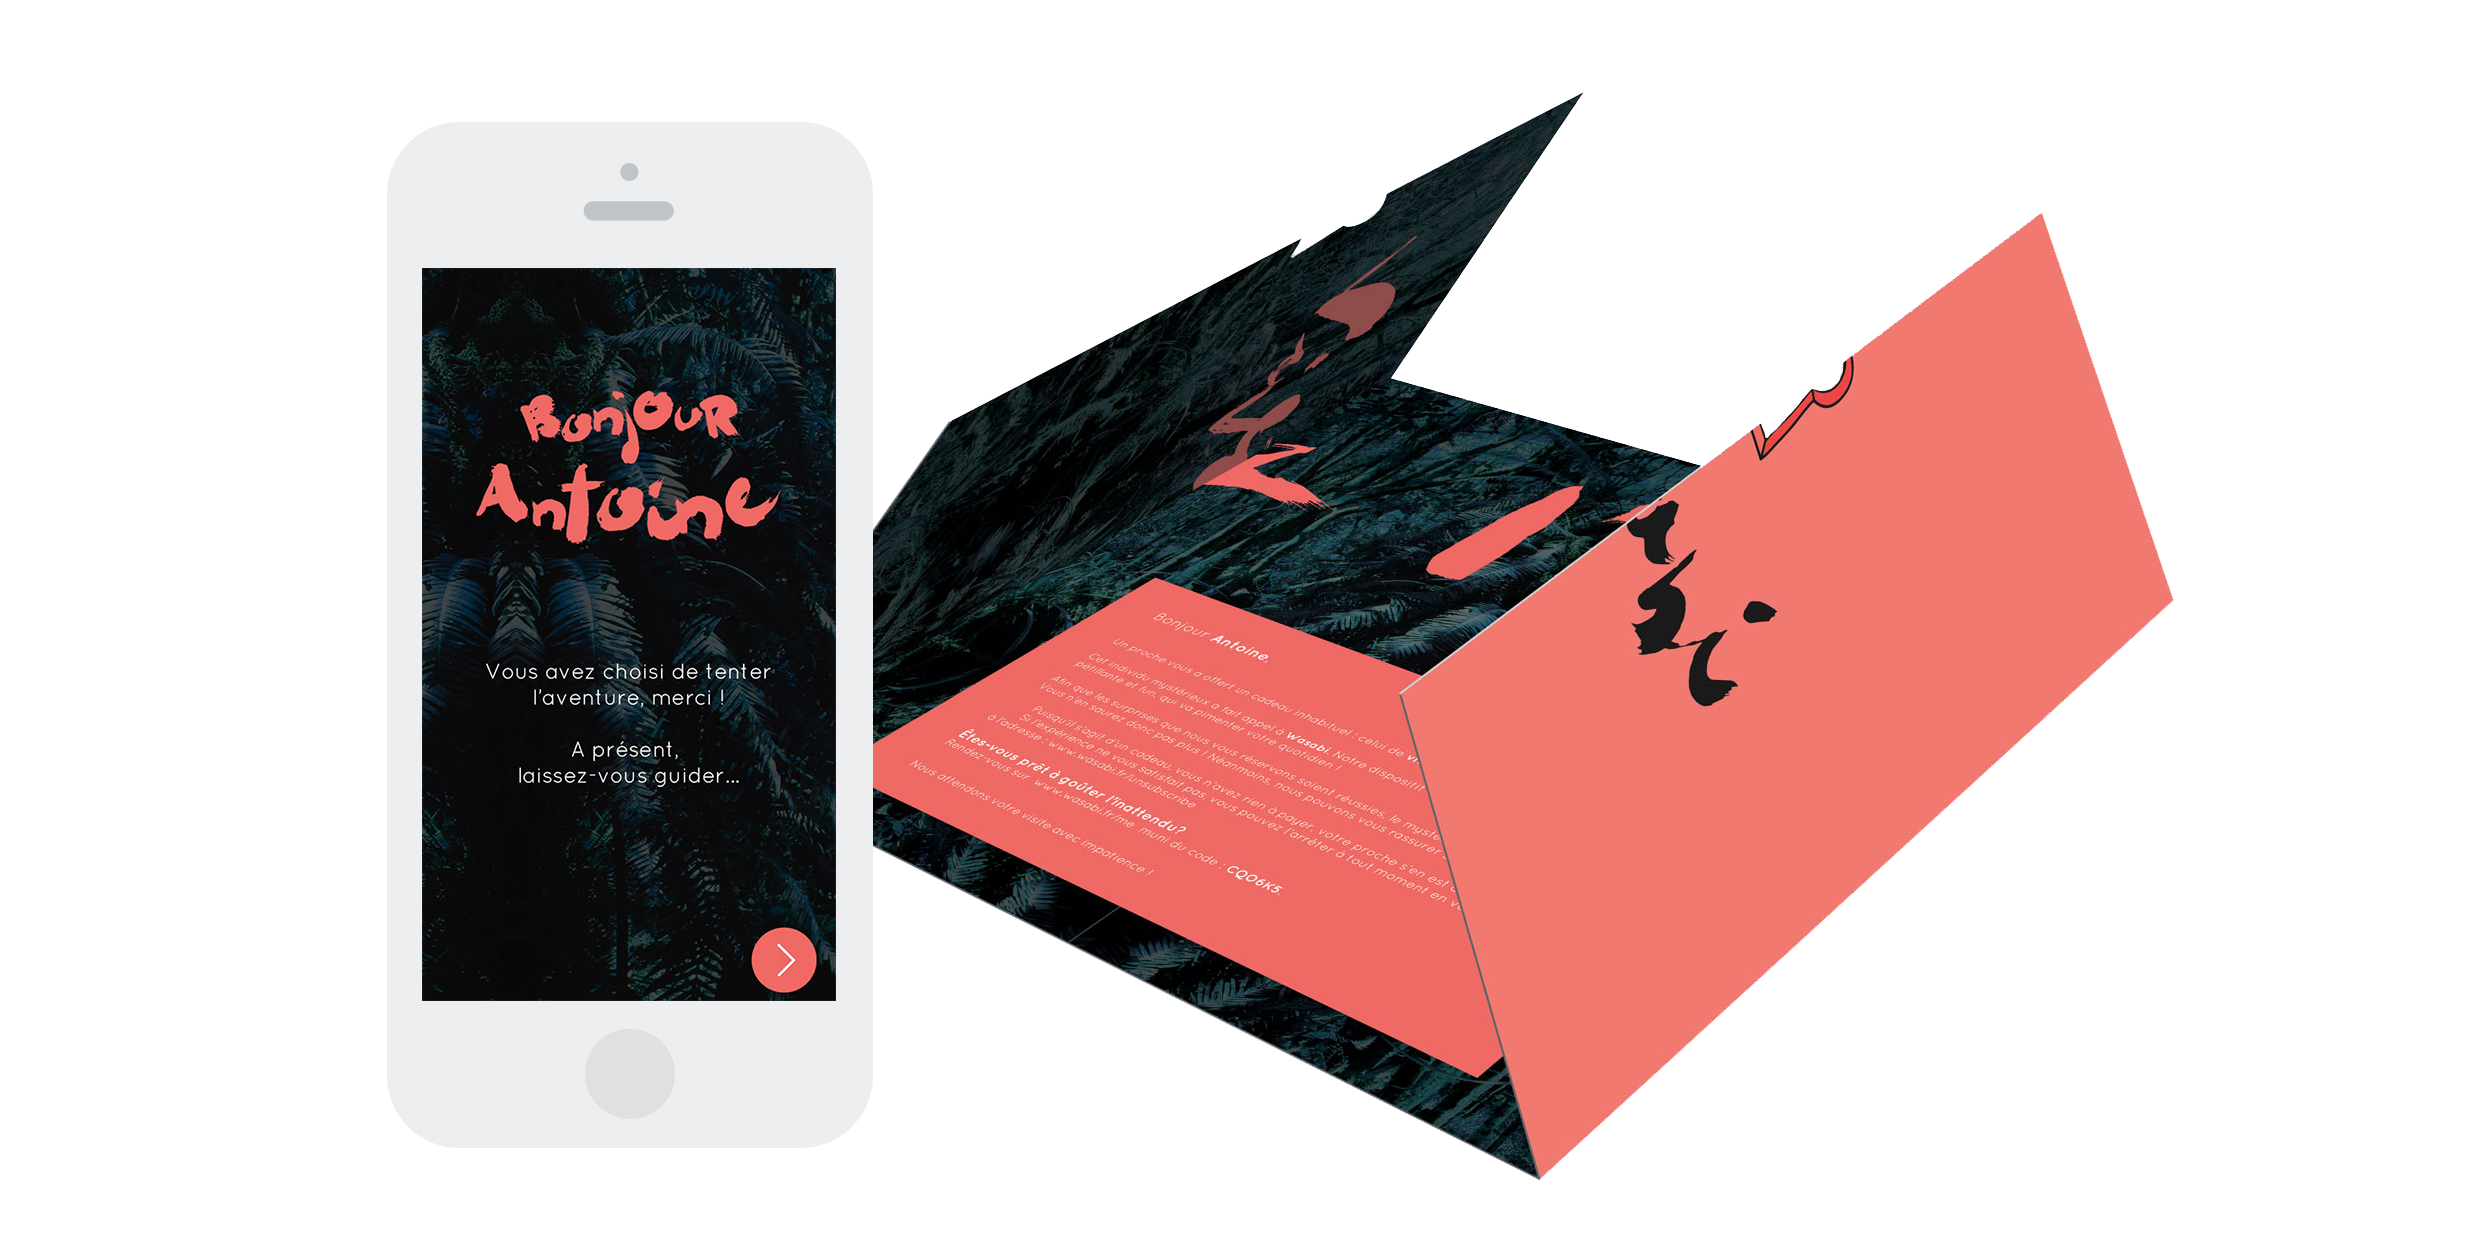
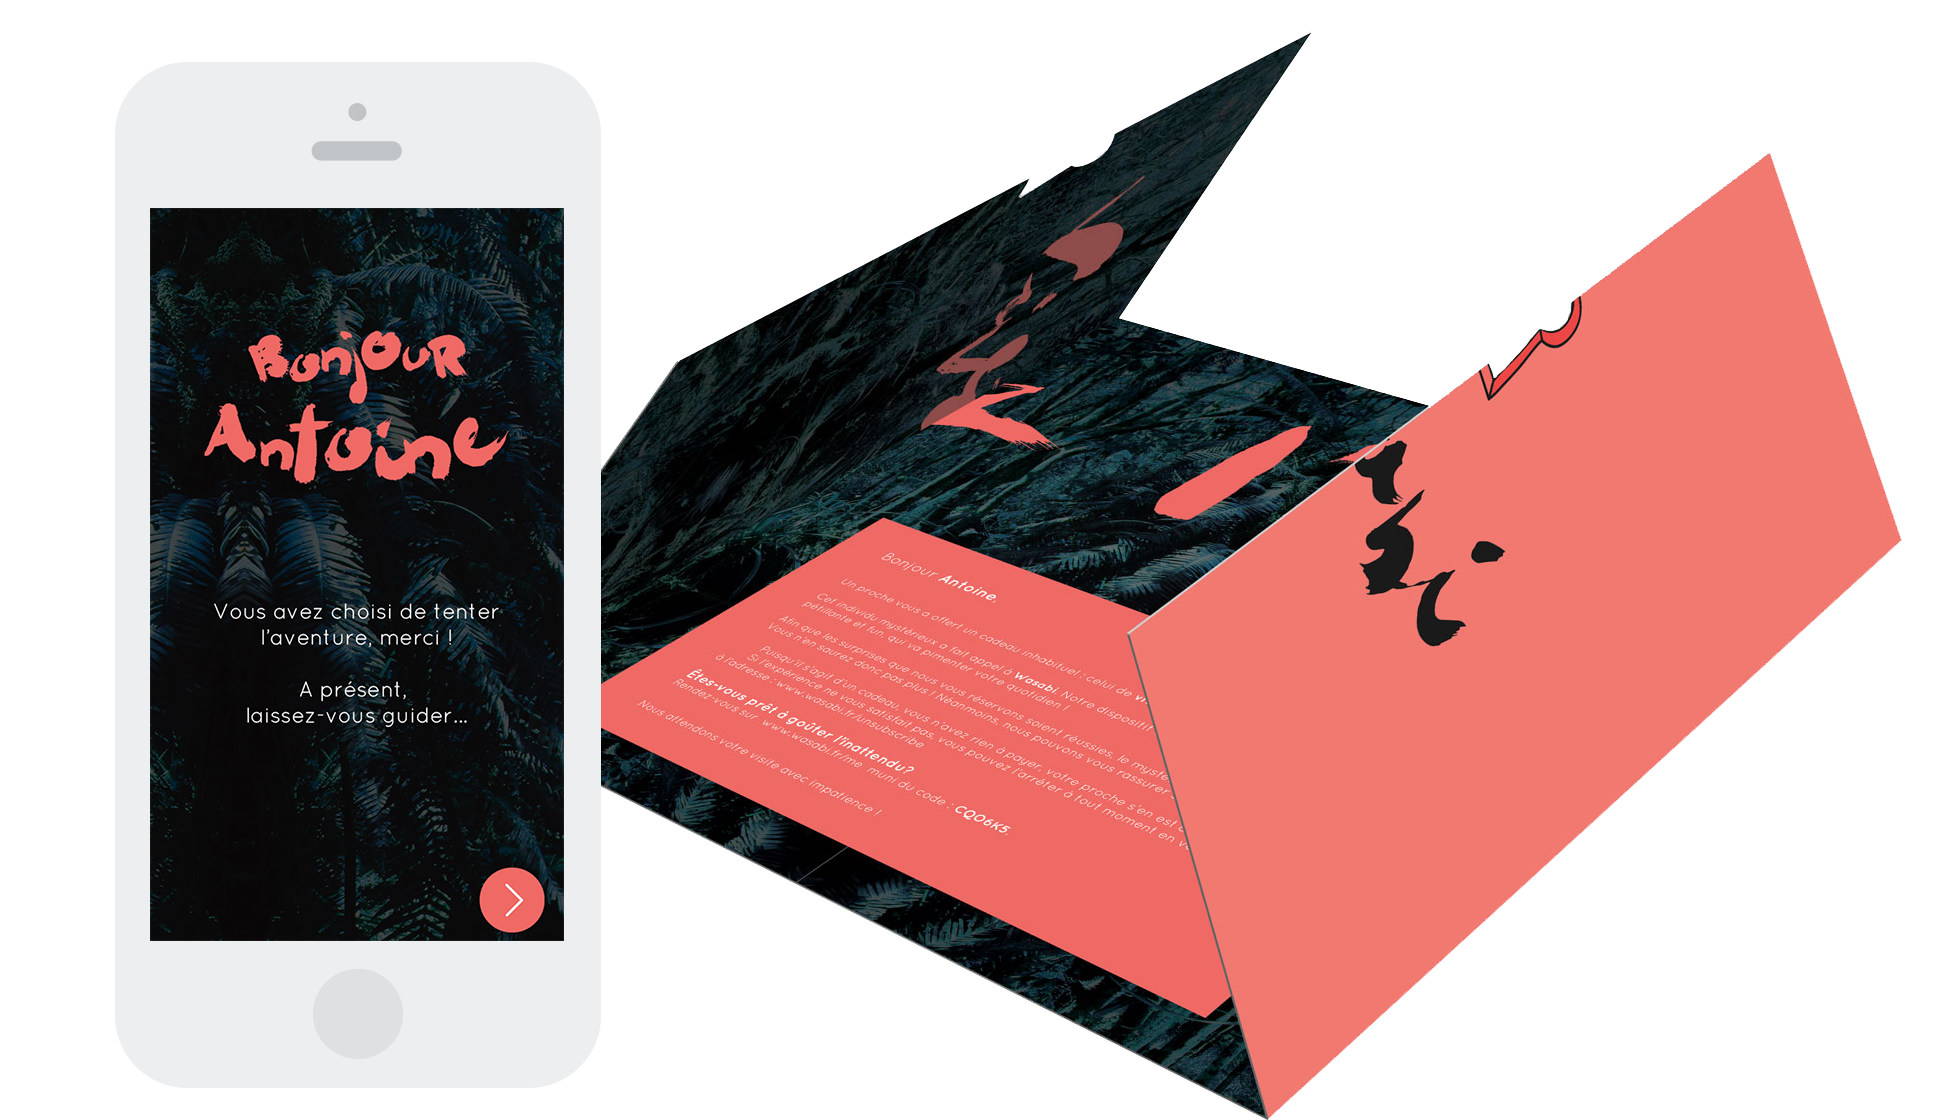
img wasabi

diff --git a/wasabi.html b/wasabi.html
@@ -228,7 +228,7 @@ L’intérêt se situe dans le fait de recevoir des médias, cadeaux personnalis
 </div>
 <!-- End inspi -->
 
-<div class=""><img src="include/img/work/portfolio/wasabi/homepage.png" alt="écran wasabi accueil site home" width="100%"></div>
+<div class=""><img src="include/img/work/portfolio/wasabi/homepage.jpg" alt="écran wasabi accueil site home" width="100%"></div>
 
   
 <!-- Inspi -->
